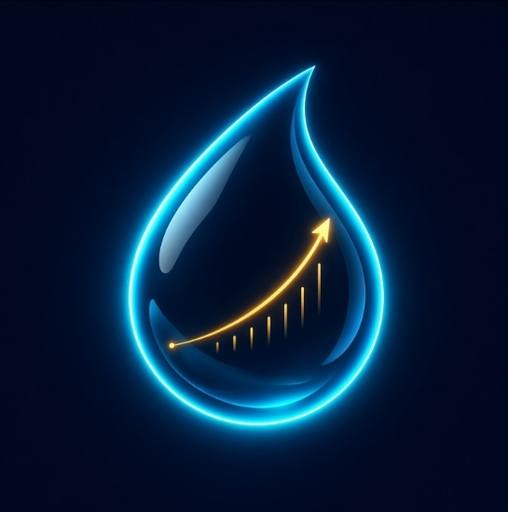
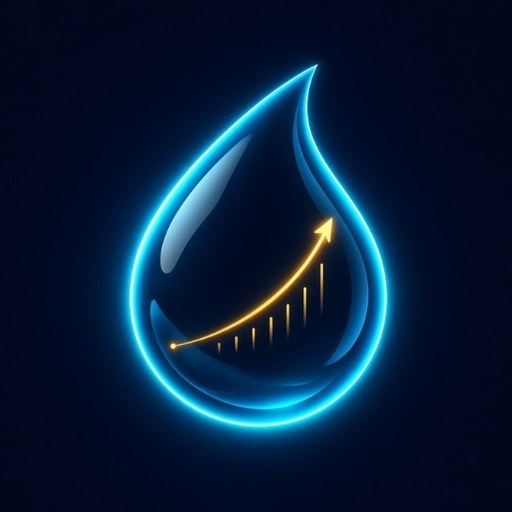
Make token/story covers always 1:1 square (pump.fun style)
Center-crop cover compression; aspect-square heroes on StoryDetail/TradeDesk
and board cards; square CreateStory preview; re-export DROP cover at 512².

diff --git a/src/pages/CreateStory.tsx b/src/pages/CreateStory.tsx
@@ -232,32 +232,34 @@ export function CreateStory() {
 
         <Field
           label="Cover image"
-          hint={imageDataUrl ? 'Compressed · saved with story' : 'JPEG/PNG · compressed client-side'}
+          hint={imageDataUrl ? '1:1 crop · saved with story' : 'JPEG/PNG · center-cropped to square'}
         >
           {imageDataUrl ? (
-            <div className="relative overflow-hidden rounded-xl border border-bcc-border bg-bcc-bg">
-              <img
-                src={imageDataUrl}
-                alt="Cover preview"
-                className="h-40 w-full object-cover sm:h-48"
-              />
-              <div className="absolute inset-x-0 bottom-0 flex items-center justify-between gap-2 bg-gradient-to-t from-black/80 to-transparent px-3 py-2">
-                <span className="truncate text-xs text-white/90">{imageName}</span>
-                <button
-                  type="button"
-                  onClick={clearImage}
-                  className="inline-flex items-center gap-1 rounded-lg border border-white/20 bg-black/40 px-2 py-1 text-[11px] text-white hover:bg-black/60"
-                >
-                  <X className="h-3 w-3" />
-                  Remove
-                </button>
+            <div className="flex justify-center">
+              <div className="relative aspect-square w-full max-w-[240px] overflow-hidden rounded-xl border border-bcc-cyan/30 bg-bcc-bg sm:max-w-xs">
+                <img
+                  src={imageDataUrl}
+                  alt="Cover preview"
+                  className="absolute inset-0 h-full w-full object-cover object-center"
+                />
+                <div className="absolute inset-x-0 bottom-0 flex items-center justify-between gap-2 bg-gradient-to-t from-black/80 to-transparent px-3 py-2">
+                  <span className="truncate text-xs text-white/90">{imageName}</span>
+                  <button
+                    type="button"
+                    onClick={clearImage}
+                    className="inline-flex items-center gap-1 rounded-lg border border-white/20 bg-black/40 px-2 py-1 text-[11px] text-white hover:bg-black/60"
+                  >
+                    <X className="h-3 w-3" />
+                    Remove
+                  </button>
+                </div>
               </div>
             </div>
           ) : (
-            <label className="flex cursor-pointer flex-col items-center justify-center gap-2 rounded-xl border border-dashed border-bcc-border bg-bcc-bg px-4 py-10 transition hover:border-bcc-green/40 hover:bg-bcc-green/5">
-              <ImagePlus className="h-8 w-8 text-bcc-muted" />
-              <span className="text-sm text-bcc-muted">
-                {imageBusy ? 'Compressing…' : imageName ? imageName : 'Click to choose an image'}
+            <label className="mx-auto flex aspect-square w-full max-w-[240px] cursor-pointer flex-col items-center justify-center gap-2 rounded-xl border border-dashed border-bcc-cyan/40 bg-bcc-bg px-4 transition hover:border-bcc-gold/50 hover:bg-bcc-cyan/5 sm:max-w-xs">
+              <ImagePlus className="h-8 w-8 text-bcc-cyan" />
+              <span className="text-center text-sm text-bcc-muted">
+                {imageBusy ? 'Compressing…' : imageName ? imageName : 'Square cover · click to upload'}
               </span>
               <input
                 type="file"

diff --git a/src/pages/StoryDetail.tsx b/src/pages/StoryDetail.tsx
@@ -119,33 +119,37 @@ export function StoryDetail() {
       <div className="grid gap-6 lg:grid-cols-5">
         <div className="space-y-5 lg:col-span-3">
           <div className="overflow-hidden rounded-2xl border border-bcc-border bg-bcc-surface">
-            <div
-              className={`relative flex h-48 items-center justify-center overflow-hidden bg-gradient-to-br ${story.gradient} sm:h-56`}
-            >
-              {story.imageUrl ? (
-                <img
-                  src={story.imageUrl}
-                  alt=""
-                  className="absolute inset-0 h-full w-full object-cover"
-                />
-              ) : (
-                <span className="relative text-7xl drop-shadow-xl sm:text-8xl">{story.emoji}</span>
-              )}
-              <div className="absolute inset-0 bg-gradient-to-t from-black/50 via-black/10 to-transparent" />
-              <div className="absolute left-4 top-4 z-10 flex flex-wrap items-center gap-2">
-                <StatusPill status={story.status} endsAt={story.endsAt} now={now} />
-                <TickerCaChip
-                  ticker={story.ticker}
-                  address={
-                    graduatedResult?.mint ??
-                    story.mint ??
-                    (story.curveId ? getCurve(story.curveId)?.mint : undefined) ??
-                    (story.pubkey ? getCurve(story.pubkey)?.mint : undefined) ??
-                    story.pubkey
-                  }
-                  size="md"
-                  tone="green"
-                />
+            <div className="flex justify-center bg-bcc-bg/40 px-4 pt-4 sm:px-6 sm:pt-5">
+              <div
+                className={`relative aspect-square w-full max-w-[280px] overflow-hidden rounded-2xl border border-bcc-cyan/20 bg-gradient-to-br ${story.gradient} sm:max-w-xs`}
+              >
+                {story.imageUrl ? (
+                  <img
+                    src={story.imageUrl}
+                    alt=""
+                    className="absolute inset-0 h-full w-full object-cover object-center"
+                  />
+                ) : (
+                  <span className="relative flex h-full w-full items-center justify-center text-7xl drop-shadow-xl sm:text-8xl">
+                    {story.emoji}
+                  </span>
+                )}
+                <div className="absolute inset-0 bg-gradient-to-t from-black/50 via-black/10 to-transparent" />
+                <div className="absolute left-3 top-3 z-10 flex flex-wrap items-center gap-2">
+                  <StatusPill status={story.status} endsAt={story.endsAt} now={now} />
+                  <TickerCaChip
+                    ticker={story.ticker}
+                    address={
+                      graduatedResult?.mint ??
+                      story.mint ??
+                      (story.curveId ? getCurve(story.curveId)?.mint : undefined) ??
+                      (story.pubkey ? getCurve(story.pubkey)?.mint : undefined) ??
+                      story.pubkey
+                    }
+                    size="md"
+                    tone="green"
+                  />
+                </div>
               </div>
             </div>
 

diff --git a/src/pages/TradeDesk.tsx b/src/pages/TradeDesk.tsx
@@ -108,29 +108,33 @@ export function TradeDesk() {
       <div className="grid gap-6 lg:grid-cols-5">
         <div className="space-y-5 lg:col-span-3">
           <div className="overflow-hidden bcc-card rounded-2xl">
-            <div
-              className={`relative flex h-40 items-center justify-center overflow-hidden bg-gradient-to-br ${curve.gradient} sm:h-48`}
-            >
-              {curve.imageUrl ? (
-                <img
-                  src={curve.imageUrl}
-                  alt=""
-                  className="absolute inset-0 h-full w-full object-cover"
-                />
-              ) : (
-                <span className="relative text-7xl drop-shadow-xl sm:text-8xl">{curve.emoji}</span>
-              )}
-              <div className="absolute inset-0 bg-gradient-to-t from-black/50 via-black/10 to-transparent" />
-              <div className="absolute left-4 top-4 z-10 flex flex-wrap items-center gap-2">
-                <span className="rounded-full border border-bcc-green/25 bg-bcc-green/15 px-2.5 py-0.5 text-[10px] font-bold uppercase tracking-wide text-bcc-green backdrop-blur">
-                  Live
-                </span>
-                <TickerCaChip
-                  ticker={curve.ticker}
-                  address={curve.mint}
-                  size="md"
-                  tone="green"
-                />
+            <div className="flex justify-center bg-bcc-bg/40 px-4 pt-4 sm:px-6 sm:pt-5">
+              <div
+                className={`relative aspect-square w-full max-w-[280px] overflow-hidden rounded-2xl border border-bcc-cyan/20 bg-gradient-to-br ${curve.gradient} sm:max-w-xs`}
+              >
+                {curve.imageUrl ? (
+                  <img
+                    src={curve.imageUrl}
+                    alt=""
+                    className="absolute inset-0 h-full w-full object-cover object-center"
+                  />
+                ) : (
+                  <span className="relative flex h-full w-full items-center justify-center text-7xl drop-shadow-xl sm:text-8xl">
+                    {curve.emoji}
+                  </span>
+                )}
+                <div className="absolute inset-0 bg-gradient-to-t from-black/50 via-black/10 to-transparent" />
+                <div className="absolute left-3 top-3 z-10 flex flex-wrap items-center gap-2">
+                  <span className="rounded-full border border-bcc-green/25 bg-bcc-green/15 px-2.5 py-0.5 text-[10px] font-bold uppercase tracking-wide text-bcc-green backdrop-blur">
+                    Live
+                  </span>
+                  <TickerCaChip
+                    ticker={curve.ticker}
+                    address={curve.mint}
+                    size="md"
+                    tone="green"
+                  />
+                </div>
               </div>
             </div>
             <div className="p-5 sm:p-6">

diff --git a/src/lib/coverImage.ts b/src/lib/coverImage.ts
@@ -1,10 +1,10 @@
 /**
  * Browser-side cover compression for Create Story uploads.
- * Produces a small JPEG data URL suitable for localStorage / meta registry.
+ * Produces a square JPEG data URL (pump.fun-style) for localStorage / meta registry.
  */
 
 export interface CompressCoverOptions {
-  /** Max width or height in px (default 512). */
+  /** Output square edge in px (default 512). */
   maxDim?: number
   /** JPEG quality 0–1 (default 0.72). */
   quality?: number
@@ -40,7 +40,7 @@ function canvasToJpegDataUrl(
 }
 
 /**
- * Resize + JPEG-compress a File/Blob into a data URL.
+ * Center-crop to 1:1, then JPEG-compress into a data URL.
  * Falls back to reading the original as data URL if canvas is unavailable.
  */
 export async function compressCoverToDataUrl(
@@ -56,18 +56,19 @@ export async function compressCoverToDataUrl(
   }
 
   const img = await loadImage(file)
-  const scale = Math.min(1, maxDim / Math.max(img.width, img.height))
-  const w = Math.max(1, Math.round(img.width * scale))
-  const h = Math.max(1, Math.round(img.height * scale))
+  const side = Math.min(img.width, img.height)
+  const sx = Math.max(0, Math.floor((img.width - side) / 2))
+  const sy = Math.max(0, Math.floor((img.height - side) / 2))
+  const out = Math.max(1, Math.min(maxDim, side))
 
   const canvas = document.createElement('canvas')
-  canvas.width = w
-  canvas.height = h
+  canvas.width = out
+  canvas.height = out
   const ctx = canvas.getContext('2d')
   if (!ctx) return fileToDataUrl(file)
   ctx.fillStyle = '#030a16'
-  ctx.fillRect(0, 0, w, h)
-  ctx.drawImage(img, 0, 0, w, h)
+  ctx.fillRect(0, 0, out, out)
+  ctx.drawImage(img, sx, sy, side, side, 0, 0, out, out)
 
   let dataUrl = canvasToJpegDataUrl(canvas, quality)
   while (dataUrl.length > maxChars && quality > 0.4) {

diff --git a/src/components/StoryCard.tsx b/src/components/StoryCard.tsx
@@ -37,15 +37,15 @@ export function StoryCard({ story, index = 0 }: StoryCardProps) {
       className="fade-up bcc-card group flex flex-col overflow-hidden rounded-2xl transition duration-300 hover:-translate-y-0.5"
       style={{ animationDelay: `${Math.min(index, 12) * 45}ms` }}
     >
-      <div className={`relative flex h-36 items-center justify-center overflow-hidden bg-gradient-to-br ${story.gradient}`}>
+      <div className={`relative aspect-square w-full overflow-hidden bg-gradient-to-br ${story.gradient}`}>
         {story.imageUrl ? (
           <img
             src={story.imageUrl}
             alt=""
-            className="absolute inset-0 h-full w-full object-cover transition duration-300 group-hover:scale-105"
+            className="absolute inset-0 h-full w-full object-cover object-center transition duration-300 group-hover:scale-105"
           />
         ) : (
-          <span className="relative text-6xl drop-shadow-lg transition duration-300 group-hover:scale-105">
+          <span className="relative flex h-full w-full items-center justify-center text-6xl drop-shadow-lg transition duration-300 group-hover:scale-105">
             {story.emoji}
           </span>
         )}

diff --git a/src/components/CurveCard.tsx b/src/components/CurveCard.tsx
@@ -35,16 +35,18 @@ export function CurveCard({ curve, index = 0 }: CurveCardProps) {
       style={{ animationDelay: `${Math.min(index, 8) * 40}ms` }}
     >
       <div
-        className={`relative flex h-28 items-center justify-center overflow-hidden bg-gradient-to-br ${curve.gradient}`}
+        className={`relative aspect-square w-full overflow-hidden bg-gradient-to-br ${curve.gradient}`}
       >
         {curve.imageUrl ? (
           <img
             src={curve.imageUrl}
             alt=""
-            className="absolute inset-0 h-full w-full object-cover transition duration-300 group-hover:scale-105"
+            className="absolute inset-0 h-full w-full object-cover object-center transition duration-300 group-hover:scale-105"
           />
         ) : (
-          <span className="relative text-5xl drop-shadow-lg">{curve.emoji}</span>
+          <span className="relative flex h-full w-full items-center justify-center text-5xl drop-shadow-lg">
+            {curve.emoji}
+          </span>
         )}
         <div className="absolute inset-0 bg-gradient-to-t from-black/55 via-black/15 to-black/10" />
         <div className="absolute left-3 top-3 z-10 flex flex-wrap gap-1.5">

diff --git a/src/components/KingBanner.tsx b/src/components/KingBanner.tsx
@@ -24,11 +24,15 @@ export function KingBanner({ story }: KingBannerProps) {
 
       <div className="relative flex flex-col gap-4 p-4 sm:flex-row sm:items-center sm:p-6">
         <div className="flex items-start gap-4 sm:items-center">
-          <div className="relative flex h-16 w-16 shrink-0 items-center justify-center overflow-hidden rounded-2xl border border-white/10 bg-black/40 text-4xl backdrop-blur sm:h-20 sm:w-20 sm:text-5xl">
+          <div className="relative aspect-square h-16 w-16 shrink-0 overflow-hidden rounded-2xl border border-bcc-cyan/30 bg-black/40 text-4xl backdrop-blur sm:h-20 sm:w-20 sm:text-5xl">
             {story.imageUrl ? (
-              <img src={story.imageUrl} alt="" className="absolute inset-0 h-full w-full object-cover" />
+              <img
+                src={story.imageUrl}
+                alt=""
+                className="absolute inset-0 h-full w-full object-cover object-center"
+              />
             ) : (
-              story.emoji
+              <span className="flex h-full w-full items-center justify-center">{story.emoji}</span>
             )}
           </div>
           <div className="min-w-0 flex-1">
